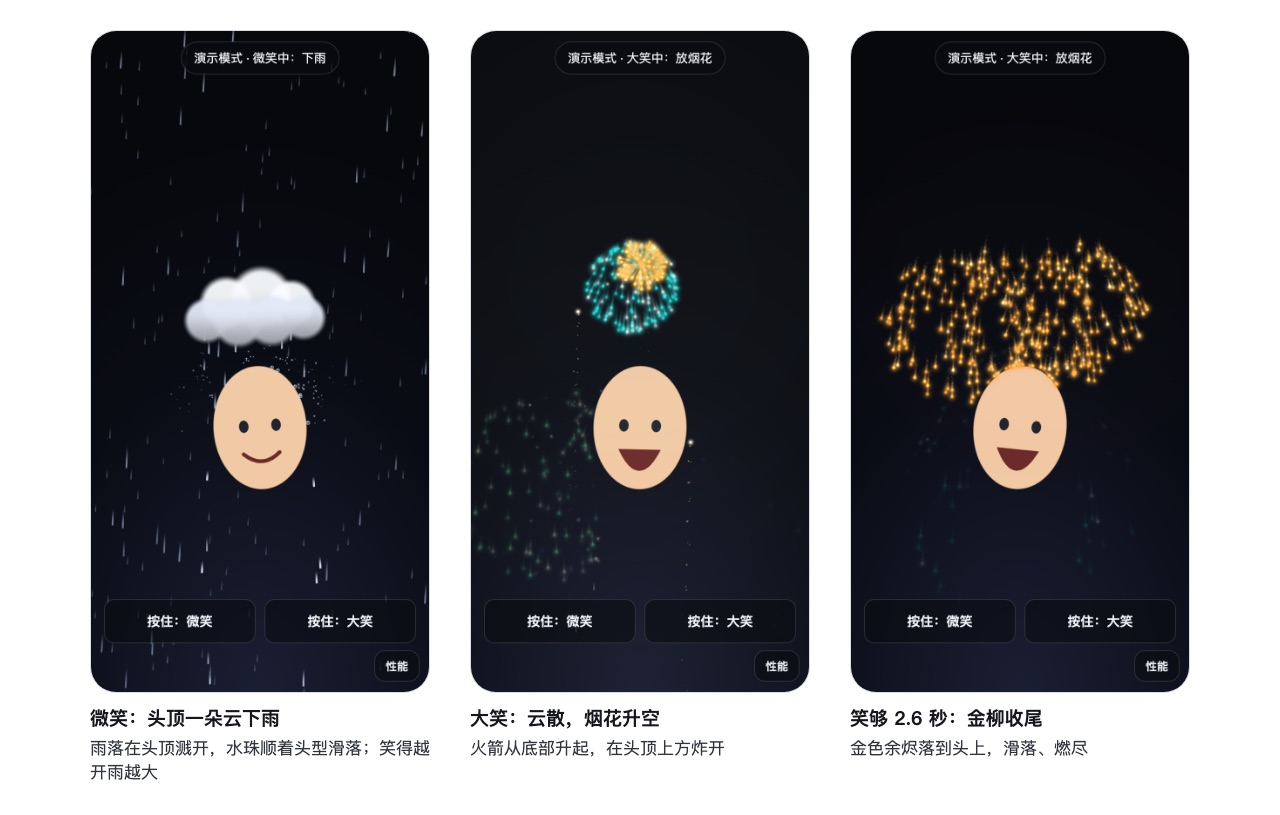
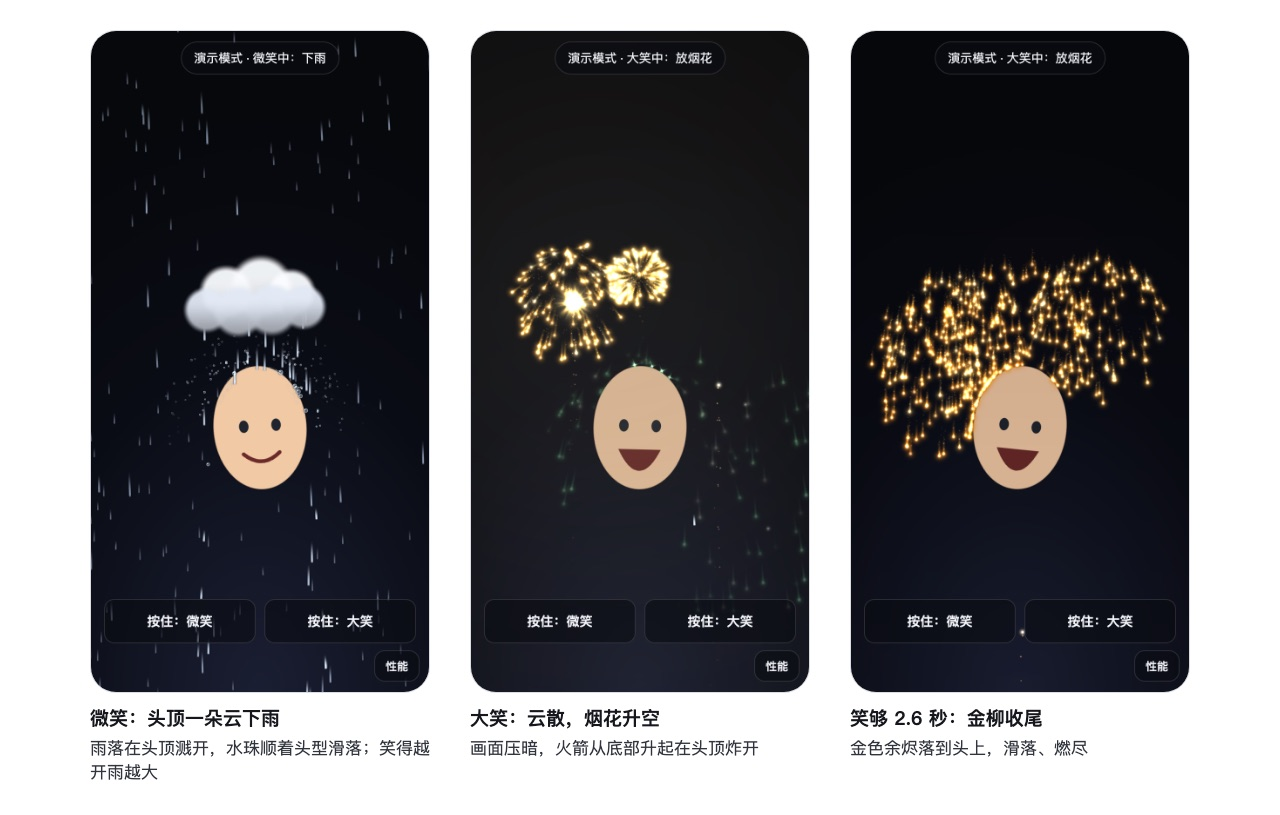
Fireworks stand out on bright pictures; rain is easier to see
- While fireworks run the picture dims (up to 18% at the top, less lower
  down) with a 0.5 s time constant: it never changes 10% within 1/3 s,
  so it cannot count as a WCAG flash (tested, worst-case laugh toggling).
- Sparks, rain and drops are drawn additively: overlapping stars burn
  white. Star heads and glows have white-hot cores. Cloud puffs stay in a
  separate normal-blend draw call, so the cloud keeps its shading.
- Rain streaks, beads, splash droplets and rings get a faint dark edge,
  so white water reads on a bright camera picture too.
- Denser, brighter, longer drops from the cloud; screen rain less faint;
  splash droplets drawn as tiny beads.

diff --git a/src/renderer-gl.js b/src/renderer-gl.js
@@ -1,6 +1,8 @@
 // WebGL point-sprite renderer. Every particle and sprite goes into one buffer
-// upload and one draw call per frame, however many there are. After a firework
-// a second, full-screen pass adds the burst's light to the scene.
+// upload per frame and two draw calls, however many there are: lights (sparks,
+// rain, drops) add up, so overlapping stars burn white; cloud puffs stack
+// normally, so the cloud keeps its shading. While fireworks run, one more
+// full-screen pass dims the picture and adds the bursts' light.
 
 import { KIND, HIDDEN } from './particles.js';
 import { SHAPE } from './sprites.js';
@@ -42,9 +44,12 @@ void main() {
   vec2 p = gl_PointCoord * 2.0 - 1.0;
   vec3 col = v_color.rgb;
   float a;
+  float sh = 0.0; // dark edge (premultiplied black): keeps water readable on a bright picture
   if (v_shape < 0.5) {
     float d2 = dot(p, p);
-    a = exp(-d2 * 5.0) + 0.6 * exp(-d2 * 40.0); // soft glow + hot core
+    float core = exp(-d2 * 40.0);
+    a = exp(-d2 * 5.0) + 0.6 * core; // soft glow + hot core
+    col = mix(col, vec3(1.0), 0.5 * core);
   } else if (v_shape < 1.5) {
     // streak: v_param CSS px wide, fading from a bright head to a clear tail
     vec2 q = p * v_half;
@@ -52,14 +57,18 @@ void main() {
     float across = abs(dot(q, vec2(-v_dir.y, v_dir.x)));
     float w = v_param * 0.5;
     float t = along / v_half * 0.5 + 0.5;
-    a = (1.0 - smoothstep(w, w + 0.8, across)) * smoothstep(0.0, 0.8, t) * (1.0 - smoothstep(0.9, 1.0, t));
+    float len = smoothstep(0.0, 0.8, t) * (1.0 - smoothstep(0.9, 1.0, t));
+    a = (1.0 - smoothstep(w, w + 0.8, across)) * len;
+    sh = (1.0 - smoothstep(w + 0.6, w + 2.0, across)) * len * 0.35;
   } else if (v_shape < 2.5) {
-    // comet: hot head at the centre, tail behind it
+    // comet: white-hot head at the centre, tail behind it
     vec2 q = p * v_half;
     float along = dot(q, v_dir);
     float across = dot(q, vec2(-v_dir.y, v_dir.x));
     float r2 = along * along + across * across;
-    float head = exp(-r2 / 3.0) + 0.45 * exp(-r2 / 18.0);
+    float hot = exp(-r2 / 3.0);
+    float head = hot + 0.45 * exp(-r2 / 18.0);
+    col = mix(col, vec3(1.0), 0.6 * hot);
     float t = clamp(1.0 + along / v_half, 0.0, 1.0) * step(along, 0.0);
     float tail = t * t * exp(-across * across / 1.6) * 0.7;
     // round window: a slow star has a small sprite, and its halo would show the square edge
@@ -78,6 +87,7 @@ void main() {
     float hl = exp(-dot(h, h) * 90.0);
     a = body * 0.35 + rim * 0.45 + hl;
     col = mix(col, vec3(1.0), clamp(hl, 0.0, 1.0));
+    sh = (1.0 - smoothstep(0.55, 0.8, d)) * 0.3;
   } else if (v_shape < 5.5) {
     // star: four-point glint
     vec2 r = vec2(dot(p, v_dir), dot(p, vec2(-v_dir.y, v_dir.x)));
@@ -89,12 +99,15 @@ void main() {
     vec2 r = vec2(dot(p, v_dir), dot(p, vec2(-v_dir.y, v_dir.x)) / v_param);
     float d = length(r);
     a = exp(-(d - 0.72) * (d - 0.72) * 90.0);
+    sh = exp(-(d - 0.72) * (d - 0.72) * 25.0) * 0.2;
   }
   a *= v_color.a;
-  gl_FragColor = vec4(col * a, a); // premultiplied
+  sh *= v_color.a;
+  gl_FragColor = vec4(col * a, a + sh * (1.0 - a)); // premultiplied
 }`;
 
-// Light wash: a full-screen triangle, brightest around the latest burst.
+// Scene pass: a full-screen triangle that dims the picture (most at the top,
+// the sky where shells break) and adds the bursts' light around the latest one.
 const LVS = `
 attribute vec2 a_xy;
 void main() { gl_Position = vec4(a_xy, 0.0, 1.0); }`;
@@ -104,10 +117,14 @@ uniform vec2 u_center; // device px, GL window coordinates (y up)
 uniform float u_radius;
 uniform vec3 u_color;
 uniform float u_i;
+uniform float u_dim;
+uniform float u_h;
 void main() {
   float d = distance(gl_FragCoord.xy, u_center) / u_radius;
   float f = u_i * (0.3 + 0.7 * exp(-d * d * 2.5));
-  gl_FragColor = vec4(u_color * f, f);
+  float k = u_dim * mix(0.45, 1.0, gl_FragCoord.y / u_h);
+  // over the video: darken by k, then tint towards the light by f
+  gl_FragColor = vec4(u_color * f, k + f - k * f);
 }`;
 
 const FLOATS = 6; // x, y, size, shape, angle, param
@@ -170,6 +187,8 @@ export class GLRenderer {
     this.uRadius = gl.getUniformLocation(this.lprog, 'u_radius');
     this.uColor = gl.getUniformLocation(this.lprog, 'u_color');
     this.uI = gl.getUniformLocation(this.lprog, 'u_i');
+    this.uDim = gl.getUniformLocation(this.lprog, 'u_dim');
+    this.uH = gl.getUniformLocation(this.lprog, 'u_h');
     this.lvbo = gl.createBuffer();
     gl.bindBuffer(gl.ARRAY_BUFFER, this.lvbo);
     gl.bufferData(gl.ARRAY_BUFFER, new Float32Array([-1, -1, 3, -1, -1, 3]), gl.STATIC_DRAW);
@@ -234,6 +253,10 @@ export class GLRenderer {
         a *= life * (0.55 + 0.45 * Math.sin(ps.seed[i] + ps.age[i] * 38));
       } else if (k === KIND.FLASH || k === KIND.TRAIL) {
         a *= life * life;
+      } else if (k === KIND.SPLASH) {
+        shape = SHAPE.DROP; // a tiny bead: highlight plus a dark rim, readable on any background
+        size *= 1.5;
+        a *= life;
       } else if (k === KIND.BEAD) {
         const vx = ps.vx[i];
         const vy = ps.vy[i];
@@ -260,13 +283,17 @@ export class GLRenderer {
         param = 0.32;
         size *= 0.35 + 0.9 * (1 - life);
         a *= life;
-      } else {
-        a *= life; // SPLASH
       }
       n = this.put(n, ps.x[i], ps.y[i], size, shape, angle, param, ps.r[i], g, b, a, dpr);
     }
     const sp = fx.sprites;
     for (let i = 0; i < sp.n; i++) {
+      if (sp.shape[i] === SHAPE.PUFF) continue;
+      n = this.put(n, sp.x[i], sp.y[i], sp.size[i], sp.shape[i], sp.angle[i], sp.param[i], sp.r[i], sp.g[i], sp.b[i], sp.a[i], dpr);
+    }
+    const nAdd = n; // everything above adds up (light); what follows stacks normally
+    for (let i = 0; i < sp.n; i++) {
+      if (sp.shape[i] !== SHAPE.PUFF) continue;
       n = this.put(n, sp.x[i], sp.y[i], sp.size[i], sp.shape[i], sp.angle[i], sp.param[i], sp.r[i], sp.g[i], sp.b[i], sp.a[i], dpr);
     }
     if (outline && outline.present) n = this.outline(outline, dpr, n);
@@ -274,7 +301,8 @@ export class GLRenderer {
     gl.viewport(0, 0, this.canvas.width, this.canvas.height);
     gl.clear(gl.COLOR_BUFFER_BIT);
     this.drawCalls = 0;
-    if (fx.light.i > 0) this.drawLight(fx.light, dpr);
+    gl.blendFunc(gl.ONE, gl.ONE_MINUS_SRC_ALPHA);
+    if (fx.light.i > 0 || fx.dim > 0) this.drawScene(fx, dpr);
     if (n === 0) return;
     gl.useProgram(this.prog);
     gl.uniform2f(this.uRes, this.canvas.width, this.canvas.height);
@@ -288,8 +316,17 @@ export class GLRenderer {
       off += k === 0 ? 8 : 4;
     }
     gl.bufferSubData(gl.ARRAY_BUFFER, 0, this.u8.subarray(0, n * STRIDE));
-    gl.drawArrays(gl.POINTS, 0, n);
-    this.drawCalls++;
+    if (nAdd > 0) {
+      // Additive: premultiplied colours stay valid when summed, and overlapping stars burn white.
+      gl.blendFunc(gl.ONE, gl.ONE);
+      gl.drawArrays(gl.POINTS, 0, nAdd);
+      this.drawCalls++;
+    }
+    if (n > nAdd) {
+      gl.blendFunc(gl.ONE, gl.ONE_MINUS_SRC_ALPHA);
+      gl.drawArrays(gl.POINTS, nAdd, n - nAdd);
+      this.drawCalls++;
+    }
   }
 
   put(n, x, y, size, shape, angle, param, r, g, b, a, dpr) {
@@ -311,8 +348,9 @@ export class GLRenderer {
     return n + 1;
   }
 
-  drawLight(L, dpr) {
+  drawScene(fx, dpr) {
     const gl = this.gl;
+    const L = fx.light;
     gl.useProgram(this.lprog);
     gl.bindBuffer(gl.ARRAY_BUFFER, this.lvbo);
     for (let k = 1; k < ATTRS.length; k++) gl.disableVertexAttribArray(k);
@@ -322,6 +360,8 @@ export class GLRenderer {
     gl.uniform1f(this.uRadius, Math.max(this.canvas.width, this.canvas.height) * 0.7);
     gl.uniform3f(this.uColor, L.r / 255, L.g / 255, L.b / 255);
     gl.uniform1f(this.uI, L.i);
+    gl.uniform1f(this.uDim, fx.dim);
+    gl.uniform1f(this.uH, this.canvas.height);
     gl.drawArrays(gl.TRIANGLES, 0, 3);
     this.drawCalls++;
   }

diff --git a/src/effects.js b/src/effects.js
@@ -101,6 +101,11 @@ export class Effects {
     this.flashes = 0;
     // Scene light from the latest bursts, drawn by the renderer as a soft wash.
     this.light = { x: 0, y: 0, r: 255, g: 255, b: 255, i: 0 };
+    // While fireworks run the picture dims, most at the top where shells break,
+    // so the bursts stand out on a bright camera image. It moves slowly enough
+    // that no dim/undim pair reaches the 10% luminance change of a WCAG flash.
+    this.dim = 0;
+    this.lastBurstAt = -1e9;
 
     this._top = { x: 0, y: 0 };
     this._t = { x: 0, y: 0 };
@@ -149,6 +154,10 @@ export class Effects {
     const L = this.light;
     L.i *= Math.exp(-dt / f.light.tauS);
     if (L.i < 0.002) L.i = 0;
+    const D = f.dim;
+    const dimWant = laughing || this.rN > 0 || nowMs - this.lastBurstAt < D.holdMs ? D.max : 0;
+    this.dim += (dimWant - this.dim) * (1 - Math.exp(-dt / (dimWant > this.dim ? D.inTauS : D.outTauS)));
+    if (dimWant === 0 && this.dim < 0.002) this.dim = 0;
 
     // Fireworks: keep shells coming while the laugh lasts; bigger laugh, faster cadence.
     if (laughing) {
@@ -257,17 +266,17 @@ export class Effects {
         c.vx * 0.3 + this.wind * 0.15 + rand(-12, 12),
         rand(v0, v1) * 0.6,
         3,
-        rand(16, 24),
-        200,
-        224,
+        rand(20, 30),
+        215,
+        232,
         255,
-        rand(0.6, 0.85),
+        rand(0.75, 0.95),
       );
       if (i < 0) {
         this.cloudAcc = 0;
         break;
       }
-      ps.aux[i] = 1.25; // streak width, CSS px
+      ps.aux[i] = 1.5; // streak width, CSS px
     }
   }
 
@@ -291,17 +300,17 @@ export class Effects {
         vx,
         vy,
         3,
-        far ? rand(10, 16) : rand(20, 30),
-        190,
-        215,
+        far ? rand(12, 18) : rand(22, 32),
+        200,
+        222,
         255,
-        far ? rand(0.22, 0.34) : rand(0.4, 0.6),
+        far ? rand(0.3, 0.45) : rand(0.5, 0.7),
       );
       if (i < 0) {
         this.screenAcc = 0;
         break;
       }
-      ps.aux[i] = far ? 0.75 : 1.1;
+      ps.aux[i] = far ? 0.9 : 1.3;
     }
   }
 
@@ -454,6 +463,7 @@ export class Effects {
     this.lastBurst.x = x;
     this.lastBurst.y = y;
     this.lastBurst.shell = shell;
+    this.lastBurstAt = this.now;
     const scale = clamp(minSide / 700, 0.65, 1.4);
     const vmax = rand(f.speed[0], f.speed[1]) * scale;
     const pal = shell === SHELL.WILLOW ? GOLD : shell === SHELL.HEART ? LOVE : PALETTES[this.paletteIx++ % PALETTES.length];

diff --git a/src/particles.js b/src/particles.js
@@ -211,20 +211,20 @@ export class ParticleSystem {
     const px = p.x + n.x;
     const py = p.y + n.y;
     for (let s = 0; s < 3; s++) {
-      const spread = (Math.random() - 0.5) * 300;
-      const up = 110 + Math.random() * 170;
+      const spread = (Math.random() - 0.5) * 320;
+      const up = 120 + Math.random() * 180;
       this.spawn(
         KIND.SPLASH,
         px,
         py,
         n.x * up - n.y * spread + head.vx * 0.5 + vx * 0.04,
         n.y * up + n.x * spread + head.vy * 0.5 - 50,
-        0.26 + Math.random() * 0.2,
-        2.5 + Math.random() * 2,
-        205,
-        228,
+        0.22 + Math.random() * 0.18,
+        2.5 + Math.random() * 1.5,
+        215,
+        235,
         255,
-        0.85,
+        0.95,
       );
     }
     if (n.y > -0.35) return; // a side hit: no ring, no bead
@@ -232,7 +232,7 @@ export class ParticleSystem {
       // Rings sit a few px into the hair at random depths: on the exact edge they
       // traced the collider ellipse as a dotted arc.
       const sink = 1 + Math.random() * 7;
-      const j = this.spawn(KIND.RING, px - n.x * sink, py - n.y * sink, head.vx, head.vy, 0.24, 10 + Math.random() * 5, 215, 235, 255, 0.45);
+      const j = this.spawn(KIND.RING, px - n.x * sink, py - n.y * sink, head.vx, head.vy, 0.26, 12 + Math.random() * 6, 220, 238, 255, 0.5);
       if (j >= 0) this.aux[j] = Math.atan2(n.x, -n.y); // lies along the surface tangent
     }
     if (this.beads < phys.maxBeads && Math.random() < phys.beadChance) {

diff --git a/src/config.js b/src/config.js
@@ -96,13 +96,16 @@ export const CONFIG = {
     finaleAfterMs: 2600, // laughing this long: golden willows over the head
     maxFlashesPerSec: 3, // WCAG 2.3.1
     light: { max: 0.085, add: 0.05, tauS: 0.22 }, // scene glow; < 10% luminance change is not a "flash"
+    // Scene dims while fireworks run (top edge; 45% of it at the bottom). With a
+    // 0.5 s time constant it moves < 10% in any 1/3 s, so it can never flash.
+    dim: { max: 0.18, inTauS: 0.5, outTauS: 0.9, holdMs: 1500 },
   },
 
   // Quality tiers. The governor moves between them based on measured frame time.
   tiers: [
-    { name: 'low', maxParticles: 1200, rainPer1000px: 120, cloudDrops: 70, sparksPerBurst: 60, trailRate: 4, dprCap: 1.25 },
-    { name: 'mid', maxParticles: 2600, rainPer1000px: 200, cloudDrops: 110, sparksPerBurst: 100, trailRate: 8, dprCap: 1.75 },
-    { name: 'high', maxParticles: 5000, rainPer1000px: 280, cloudDrops: 150, sparksPerBurst: 150, trailRate: 12, dprCap: 2 },
+    { name: 'low', maxParticles: 1200, rainPer1000px: 120, cloudDrops: 110, sparksPerBurst: 60, trailRate: 4, dprCap: 1.25 },
+    { name: 'mid', maxParticles: 2600, rainPer1000px: 200, cloudDrops: 170, sparksPerBurst: 100, trailRate: 8, dprCap: 1.75 },
+    { name: 'high', maxParticles: 5000, rainPer1000px: 280, cloudDrops: 230, sparksPerBurst: 150, trailRate: 12, dprCap: 2 },
   ],
   governor: {
     downAfterMs: 1500, // frame interval above budget for this long -> drop a tier

diff --git a/tests/effects.test.js b/tests/effects.test.js
@@ -197,3 +197,29 @@ test('the cloud shrinks to fit the GPU point-size cap instead of being clipped',
   for (const i of puffs(fx)) biggest = Math.max(biggest, fx.sprites.size[i]);
   assert.ok(biggest <= 120, `puff ${biggest.toFixed(1)} px > cap`);
 });
+
+test('fireworks dim the picture, slowly enough never to flash, and it recovers after', () => {
+  const { ps, fx } = setup();
+  const h = head();
+  const D = CONFIG.fireworks.dim;
+  const trace = [];
+  // worst case: a laugh that switches on and off every 380 ms (the release time)
+  let t = 0;
+  for (; t < 4000; t += 1000 / 60) {
+    const laughing = Math.floor(t / 380) % 2 === 0;
+    fx.update(1 / 60, t, 0, laughing ? 0.4 : 0, laughing, h, W, H);
+    ps.step(1 / 60, h, W, H, CONFIG.physics);
+    trace.push([t, fx.dim]);
+    assert.ok(fx.dim <= D.max + 1e-9);
+  }
+  // no change of 10% or more within any third of a second
+  for (let i = 0; i < trace.length; i++) {
+    for (let j = i + 1; j < trace.length && trace[j][0] - trace[i][0] <= 1000 / 3; j++) {
+      assert.ok(Math.abs(trace[j][1] - trace[i][1]) < 0.1, `dim moved ${(trace[j][1] - trace[i][1]).toFixed(3)} in ${(trace[j][0] - trace[i][0]).toFixed(0)} ms`);
+    }
+  }
+  assert.ok(Math.max(...trace.map((r) => r[1])) > D.max * 0.6, 'it does dim');
+  // after the last burst it comes back to the plain picture
+  t = run(ps, fx, h, 5000, { laughing: false }, t);
+  assert.equal(fx.dim, 0);
+});

diff --git a/src/renderer-2d.js b/src/renderer-2d.js
@@ -61,6 +61,11 @@ export class Canvas2DRenderer {
     ctx.clearRect(0, 0, this.canvas.width, this.canvas.height);
     ctx.setTransform(dpr, 0, 0, dpr, 0, 0);
 
+    if (fx.dim > 0) {
+      ctx.globalAlpha = fx.dim * 0.75; // the GL pass dims the top more; one flat wash is enough here
+      ctx.fillStyle = 'rgb(0,0,0)';
+      ctx.fillRect(0, 0, w, h);
+    }
     const L = fx.light;
     if (L.i > 0) {
       ctx.globalAlpha = L.i * 0.8;

diff --git a/DEVLOG.md b/DEVLOG.md
@@ -31,7 +31,7 @@
 ## 验收方式
 
 ```bash
-npm test   # 59 个单测
+npm test   # 60 个单测
 ```
 
 浏览器验收用 Chrome 无头模式加 `--use-angle=metal`（真 GPU）和 `--use-file-for-fake-video-capture`（把一段人脸视频当摄像头），逐秒读取 `window.__app.snapshot`：帧率、每帧 JS 耗时、推理耗时、检测频率、粒子数、头部碰撞次数。手机场景用 390×844 视口加 CPU 降速 4 倍近似。测试视频不入库。
